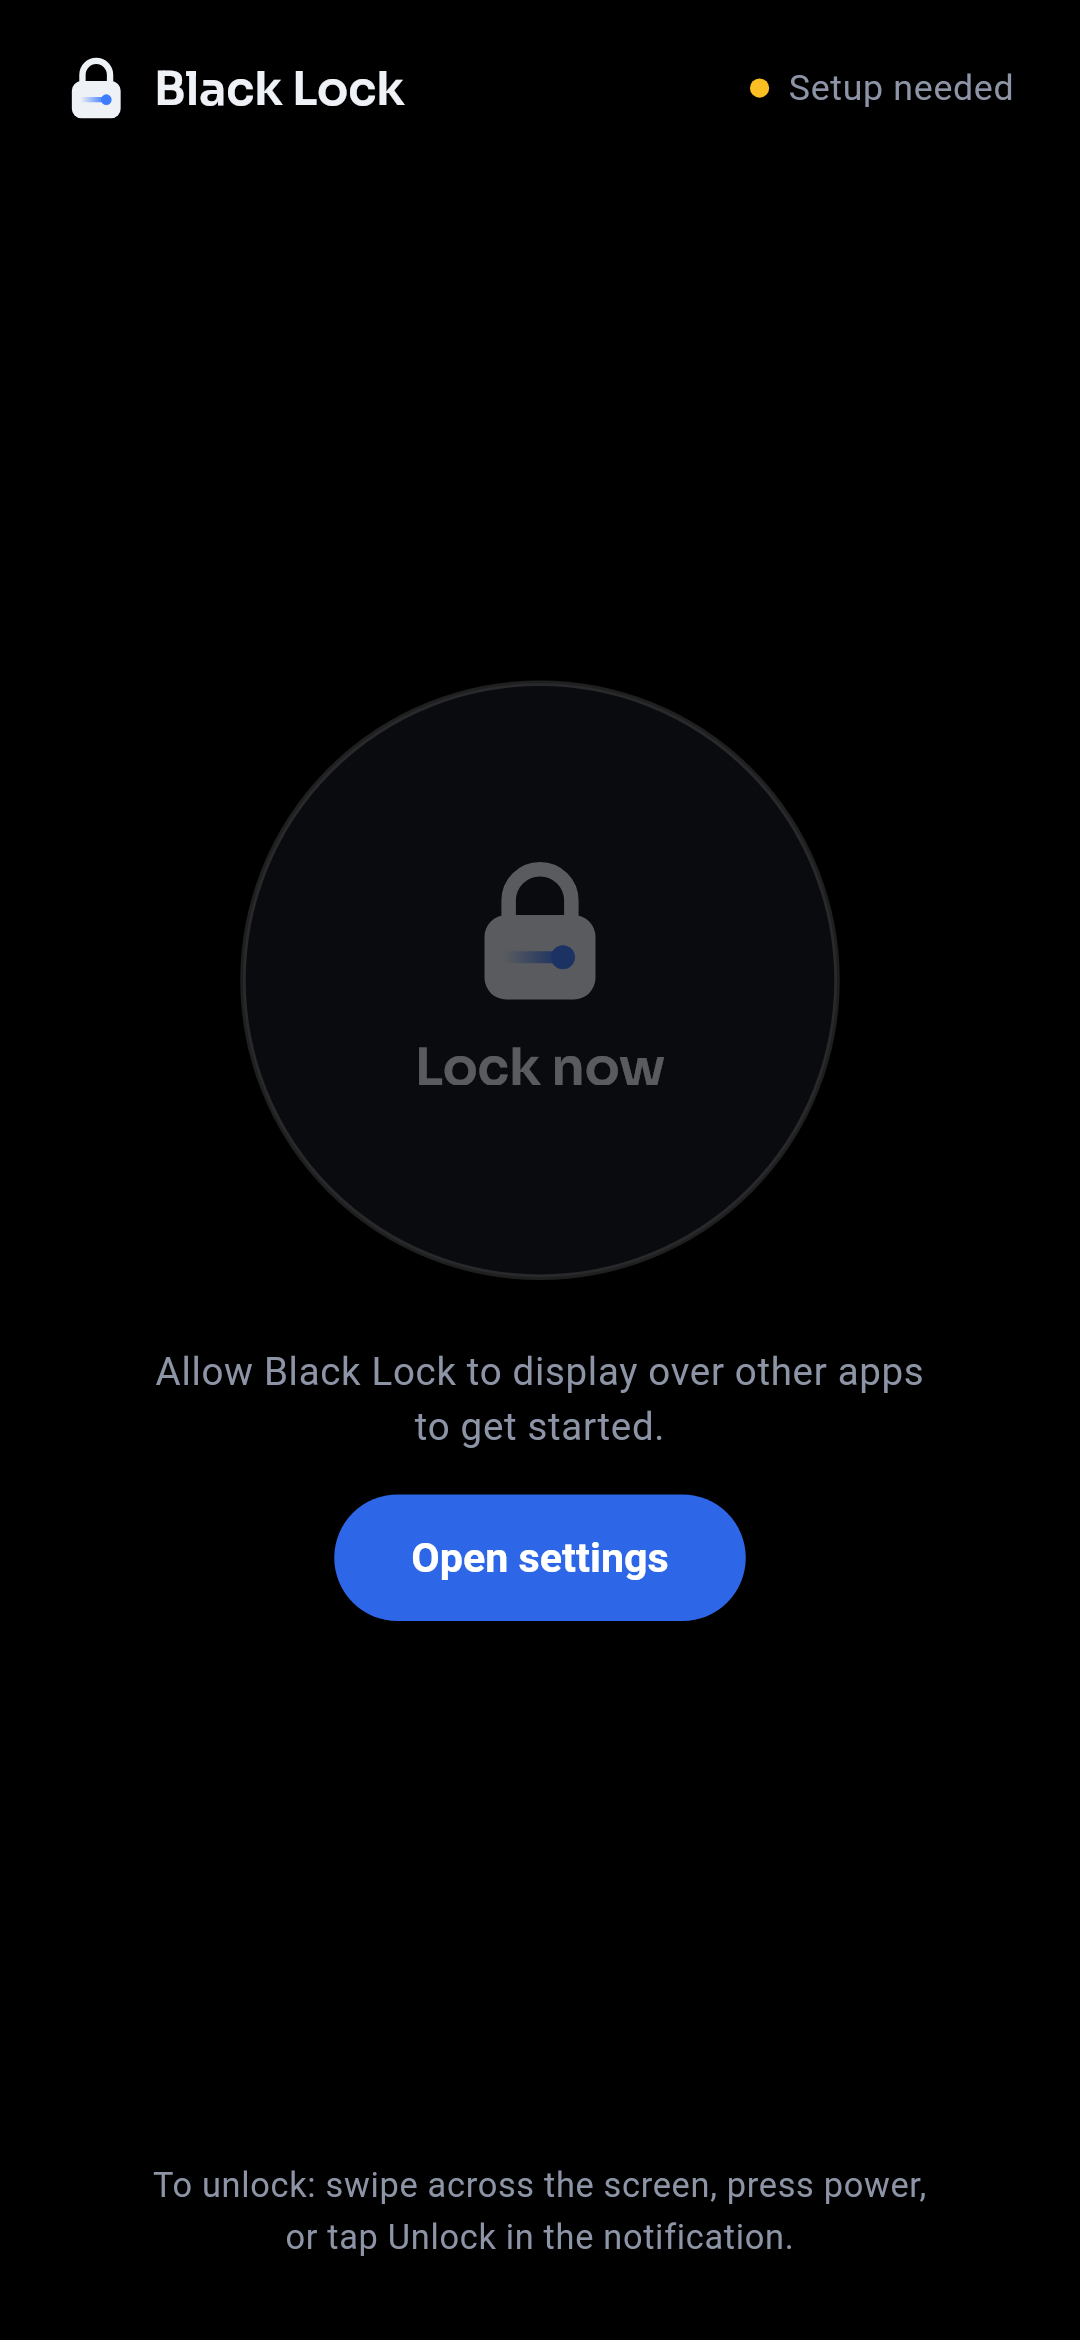
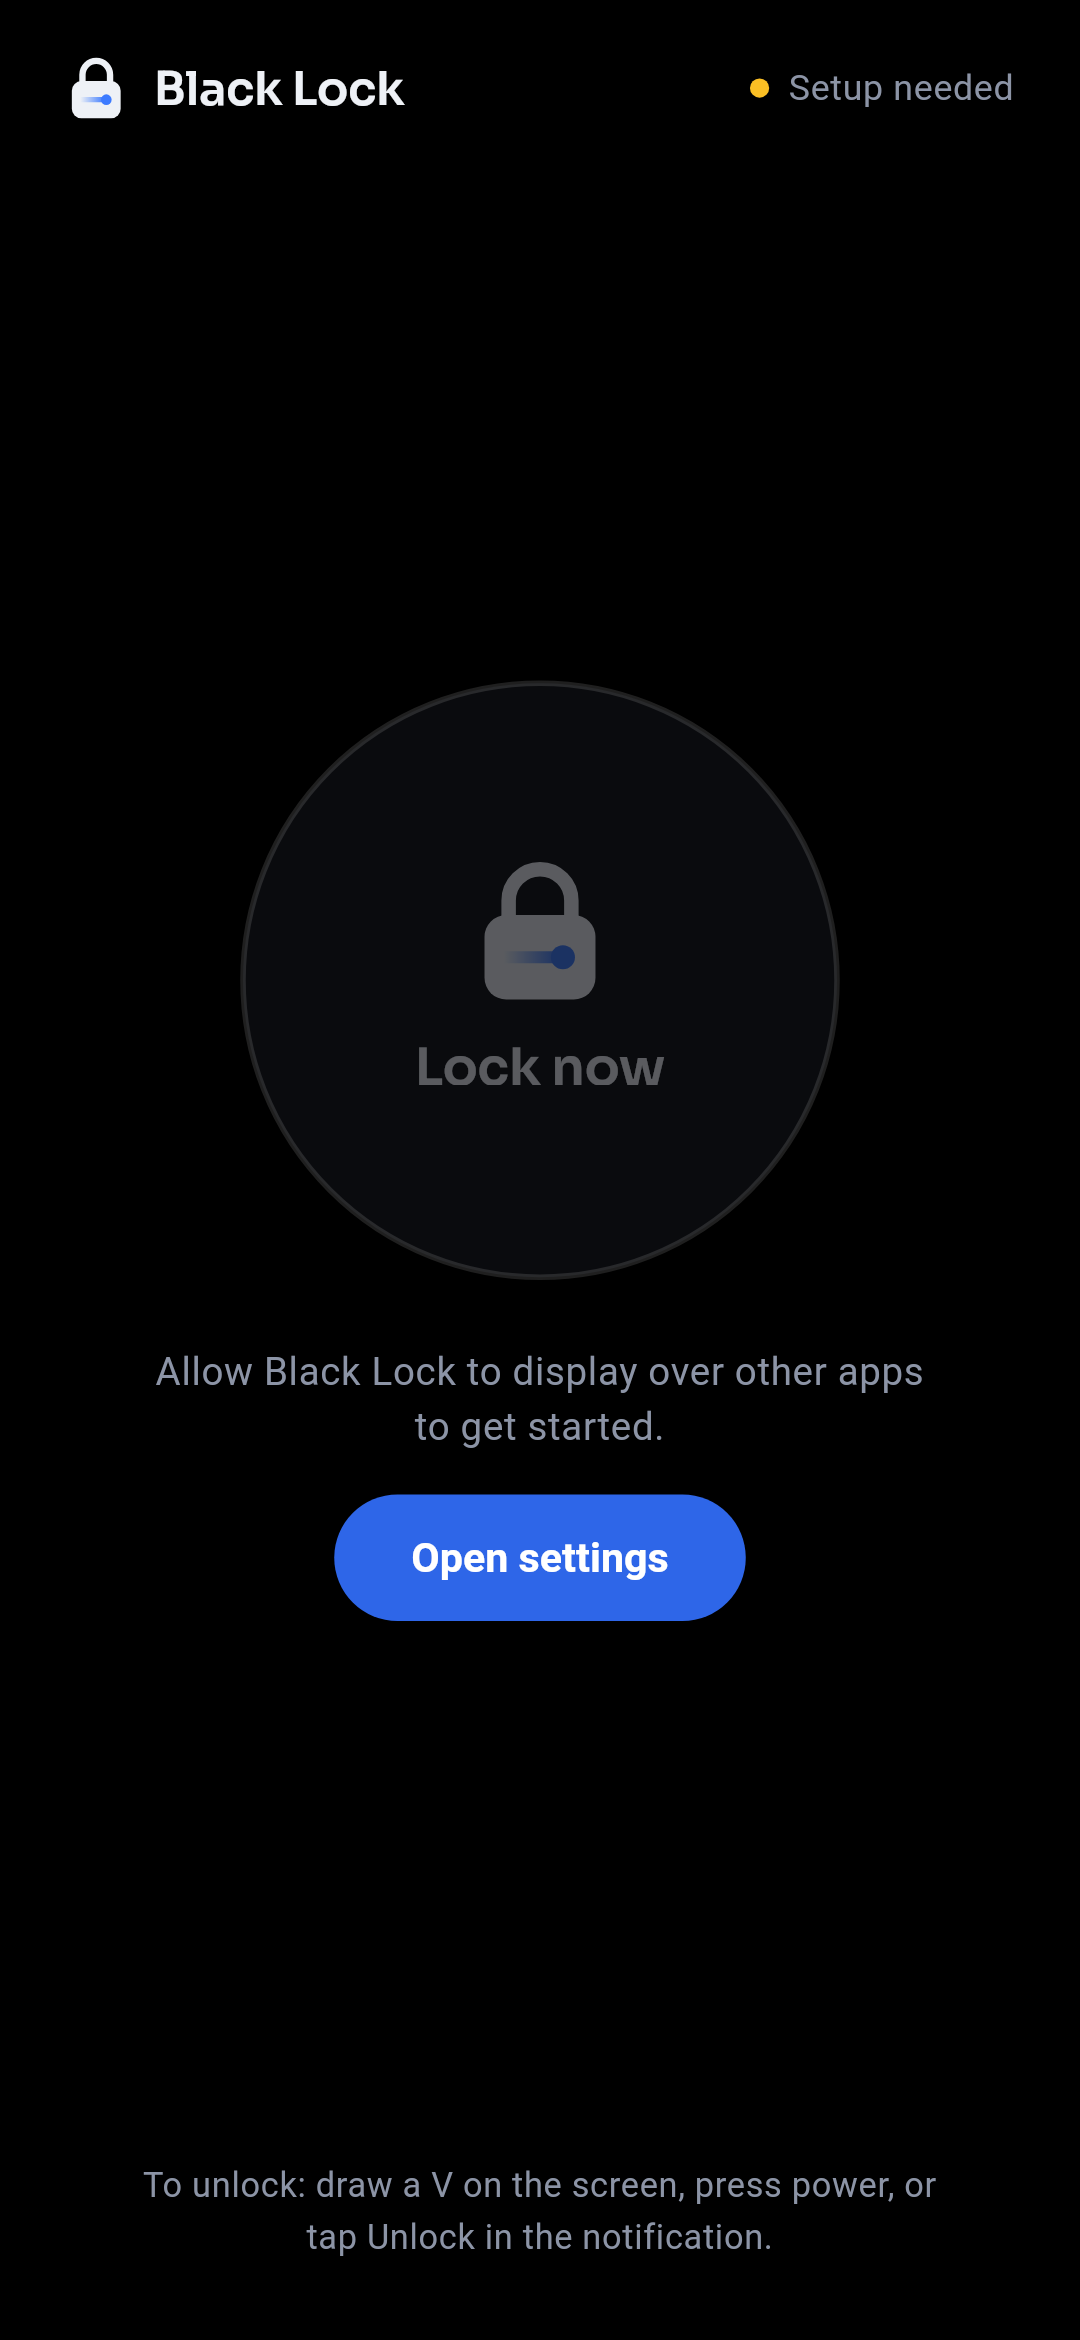
Unlock by drawing a V instead of a swipe
Replace SwipeDetector with VGestureDetector: one finger, within 1.5 s,
two slanted, fairly straight arms rising from the lowest point to
opposite sides, each at least max(70dp, 15% of the short side).
Update the notification, home-screen hint, README and screenshots.

Claude-Session: https://claude.ai/code/session_01Jiy7h9i8KPirgb67mjZLru

diff --git a/android/app/src/test/kotlin/com/blacklock/black_lock/VGestureDetectorTest.kt b/android/app/src/test/kotlin/com/blacklock/black_lock/VGestureDetectorTest.kt
@@ -1,0 +1,102 @@
+package com.blacklock.black_lock
+
+import org.junit.Assert.assertFalse
+import org.junit.Assert.assertTrue
+import org.junit.Test
+
+class VGestureDetectorTest {
+
+    private val detector = VGestureDetector(minArmPx = 200f)
+
+    /** Draws a stroke through [points] (x, y pairs) over [ms], with 10 moves per segment. */
+    private fun stroke(vararg points: Pair<Float, Float>, ms: Long = 500): Boolean {
+        val steps = (points.size - 1) * 10
+        detector.down(points[0].first, points[0].second, 0)
+        var step = 0
+        for (s in 0 until points.size - 1) {
+            val (x0, y0) = points[s]
+            val (x1, y1) = points[s + 1]
+            for (i in 1..10) {
+                step++
+                val f = i / 10f
+                val x = x0 + (x1 - x0) * f
+                val y = y0 + (y1 - y0) * f
+                val t = ms * step / steps
+                if (step == steps) return detector.up(x, y, t)
+                detector.move(x, y, t)
+            }
+        }
+        error("unreachable")
+    }
+
+    private fun p(x: Int, y: Int) = x.toFloat() to y.toFloat()
+
+    // --- Vs that unlock ---
+
+    @Test fun vLeftToRightUnlocks() = assertTrue(stroke(p(300, 800), p(500, 1200), p(700, 800)))
+    @Test fun vRightToLeftUnlocks() = assertTrue(stroke(p(700, 800), p(500, 1200), p(300, 800)))
+    @Test fun narrowVUnlocks() = assertTrue(stroke(p(410, 700), p(500, 1100), p(590, 700)))
+    @Test fun wideVUnlocks() = assertTrue(stroke(p(100, 900), p(500, 1250), p(900, 900)))
+    @Test fun lopsidedVUnlocks() = assertTrue(stroke(p(350, 900), p(500, 1200), p(750, 700)))
+
+    @Test fun wobblyVUnlocks() = assertTrue(
+        stroke(p(300, 800), p(360, 905), p(390, 1000), p(460, 1110), p(500, 1200),
+            p(545, 1095), p(590, 1010), p(640, 905), p(700, 800)),
+    )
+
+    // --- gestures that do not unlock ---
+
+    @Test fun tapDoesNotUnlock() {
+        detector.down(500f, 500f, 0)
+        assertFalse(detector.up(502f, 501f, 80))
+    }
+
+    @Test fun straightSwipeDownDoesNotUnlock() = assertFalse(stroke(p(500, 600), p(500, 1300)))
+    @Test fun straightSwipeUpDoesNotUnlock() = assertFalse(stroke(p(500, 1300), p(500, 600)))
+    @Test fun swipeAcrossDoesNotUnlock() = assertFalse(stroke(p(100, 1000), p(900, 1000)))
+    @Test fun diagonalSwipeDoesNotUnlock() = assertFalse(stroke(p(200, 700), p(700, 1300)))
+
+    @Test fun saggingSwipeAcrossDoesNotUnlock() =
+        assertFalse(stroke(p(100, 1000), p(500, 1150), p(900, 1000)))
+
+    @Test fun upsideDownVDoesNotUnlock() = assertFalse(stroke(p(300, 1200), p(500, 800), p(700, 1200)))
+
+    @Test fun downAndBackUpSameLineDoesNotUnlock() =
+        assertFalse(stroke(p(500, 700), p(510, 1200), p(500, 700)))
+
+    @Test fun bothArmsOnSameSideDoNotUnlock() =
+        assertFalse(stroke(p(300, 800), p(500, 1200), p(350, 750)))
+
+    @Test fun tooSmallVDoesNotUnlock() = assertFalse(stroke(p(400, 1000), p(470, 1150), p(540, 1000)))
+
+    @Test fun checkMarkWithShortArmDoesNotUnlock() =
+        assertFalse(stroke(p(380, 1050), p(450, 1200), p(750, 700)))
+
+    @Test fun slowVDoesNotUnlock() =
+        assertFalse(stroke(p(300, 800), p(500, 1200), p(700, 800), ms = 2500))
+
+    @Test fun wDoesNotUnlock() =
+        assertFalse(stroke(p(100, 800), p(300, 1200), p(500, 850), p(700, 1200), p(900, 800)))
+
+    @Test fun secondFingerCancels() {
+        detector.down(300f, 800f, 0)
+        detector.move(500f, 1200f, 200)
+        detector.extraPointer()
+        assertFalse(detector.up(700f, 800f, 400))
+    }
+
+    @Test fun cancelledGestureDoesNotUnlock() {
+        detector.down(300f, 800f, 0)
+        detector.move(500f, 1200f, 200)
+        detector.cancel()
+        assertFalse(detector.up(700f, 800f, 400))
+    }
+
+    @Test fun upWithoutDownDoesNotUnlock() = assertFalse(detector.up(500f, 900f, 200))
+
+    @Test fun eachGestureStartsFresh() {
+        assertFalse(stroke(p(500, 600), p(500, 1300)))
+        assertTrue(stroke(p(300, 800), p(500, 1200), p(700, 800)))
+        assertFalse(detector.up(700f, 800f, 600))
+    }
+}

diff --git a/android/app/src/main/kotlin/com/blacklock/black_lock/VGestureDetector.kt b/android/app/src/main/kotlin/com/blacklock/black_lock/VGestureDetector.kt
@@ -1,0 +1,109 @@
+package com.blacklock.black_lock
+
+import kotlin.math.abs
+import kotlin.math.hypot
+import kotlin.math.max
+import kotlin.math.min
+
+/**
+ * Decides whether a one-finger gesture is a deliberately drawn "V" (the unlock gesture).
+ *
+ * The lowest point of the stroke is the V's tip. The gesture counts when, from finger down to finger up:
+ *  - only one finger touched the screen, and it took no longer than [maxDurationMs],
+ *  - the tip lies between the start and the end: the two arms go up to opposite sides,
+ *  - each arm rises at least [minArmPx] from the tip,
+ *  - each arm is slanted: neither a vertical line (down and back up the same way)
+ *    nor a near-horizontal one (a sideways swipe that sags a little),
+ *  - each arm is roughly straight (straight-line length / path walked >= [minStraightness]).
+ *
+ * Either drawing direction works (left arm first, or right arm first).
+ * Taps, straight swipes, an upside-down V, zig-zags and pocket rubbing fail at least one rule.
+ * Times are in milliseconds from any monotonic clock.
+ */
+class VGestureDetector(
+    var minArmPx: Float,
+    private val maxDurationMs: Long = 1500,
+    private val minStraightness: Float = 0.8f,
+) {
+    private var tracking = false
+    private var startTime = 0L
+    private val xs = ArrayList<Float>()
+    private val ys = ArrayList<Float>()
+
+    fun down(x: Float, y: Float, time: Long) {
+        tracking = true
+        startTime = time
+        xs.clear(); ys.clear()
+        add(x, y)
+    }
+
+    fun move(x: Float, y: Float, time: Long) {
+        if (!tracking) return
+        if (time - startTime > maxDurationMs) {
+            tracking = false
+            return
+        }
+        add(x, y)
+    }
+
+    /** A second finger landed: this gesture can no longer unlock. */
+    fun extraPointer() {
+        tracking = false
+    }
+
+    fun cancel() {
+        tracking = false
+    }
+
+    /** Returns true when the gesture that just ended is a V. */
+    fun up(x: Float, y: Float, time: Long): Boolean {
+        move(x, y, time)
+        if (!tracking) return false
+        tracking = false
+        return isV()
+    }
+
+    private fun add(x: Float, y: Float) {
+        if (xs.size >= MAX_POINTS) {
+            tracking = false
+            return
+        }
+        xs.add(x); ys.add(y)
+    }
+
+    private fun isV(): Boolean {
+        val last = xs.size - 1
+        if (last < 2) return false
+        // Screen y grows downwards, so the tip is the point with the largest y.
+        var tip = 0
+        for (i in 1..last) if (ys[i] > ys[tip]) tip = i
+        if (tip == 0 || tip == last) return false
+        val opposite = (xs[0] - xs[tip]) * (xs[last] - xs[tip]) < 0
+        return opposite && isArm(0, tip) && isArm(last, tip)
+    }
+
+    /** The stroke between point [end] (top of the arm) and point [tip] is one arm of a V. */
+    private fun isArm(end: Int, tip: Int): Boolean {
+        val dx = abs(xs[tip] - xs[end])
+        val dy = ys[tip] - ys[end]
+        if (dy < minArmPx) return false
+        if (dx < MIN_SLANT * dy) return false // too close to vertical
+        if (dy < MIN_STEEPNESS * dx) return false // too close to horizontal
+        var path = 0f
+        for (i in min(end, tip) until max(end, tip)) {
+            path += hypot(xs[i + 1] - xs[i], ys[i + 1] - ys[i])
+        }
+        return path > 0f && hypot(dx, dy) / path >= minStraightness
+    }
+
+    private companion object {
+        /** Each arm's sideways travel must be at least this share of its height (about 11° off vertical). */
+        const val MIN_SLANT = 0.2f
+
+        /** Each arm's height must be at least this share of its sideways travel (about 22° off horizontal). */
+        const val MIN_STEEPNESS = 0.4f
+
+        /** Plenty for 1.5 s of touch events; a longer stream is not a quick V. */
+        const val MAX_POINTS = 1000
+    }
+}

diff --git a/android/app/src/main/kotlin/com/blacklock/black_lock/BlackOverlayView.kt b/android/app/src/main/kotlin/com/blacklock/black_lock/BlackOverlayView.kt
@@ -12,13 +12,13 @@ import kotlin.math.min
 
 /**
  * The pure-black cover. It swallows every touch and the Back key, and calls [onUnlock]
- * when [SwipeDetector] sees a deliberate swipe in any direction.
+ * when [VGestureDetector] sees a V drawn with one finger.
  */
 @SuppressLint("ViewConstructor")
 class BlackOverlayView(context: Context, private val onUnlock: () -> Unit) : View(context) {
 
     private val density = resources.displayMetrics.density
-    private val detector = SwipeDetector(minDistancePx = 120 * density)
+    private val detector = VGestureDetector(minArmPx = 70 * density)
     private val shownAt = SystemClock.uptimeMillis()
 
     init {
@@ -30,8 +30,8 @@ class BlackOverlayView(context: Context, private val onUnlock: () -> Unit) : Vie
 
     override fun onSizeChanged(w: Int, h: Int, oldw: Int, oldh: Int) {
         super.onSizeChanged(w, h, oldw, oldh)
-        // At least 120dp, or 30% of the short side of the screen, whichever is longer.
-        detector.minDistancePx = max(120 * density, 0.3f * min(w, h))
+        // Each arm of the V rises at least 70dp, or 15% of the short side of the screen, whichever is longer.
+        detector.minArmPx = max(70 * density, 0.15f * min(w, h))
     }
 
     @SuppressLint("ClickableViewAccessibility")

diff --git a/android/app/src/main/kotlin/com/blacklock/black_lock/LockService.kt b/android/app/src/main/kotlin/com/blacklock/black_lock/LockService.kt
@@ -29,7 +29,7 @@ import android.widget.Toast
  * while another app (video, music, navigation) is in front underneath it.
  *
  * Ways out, all of which call [unlock]:
- *  - a swipe on the cover (the normal way),
+ *  - drawing a V on the cover (the normal way),
  *  - pressing the power button (screen off),
  *  - the "Unlock" button on its notification, or tapping the Quick Settings tile.
  */

diff --git a/lib/main.dart b/lib/main.dart
@@ -355,7 +355,7 @@ class _Footer extends StatelessWidget {
         const SizedBox(
           width: 290,
           child: Text(
-            'To unlock: swipe across the screen, press power, '
+            'To unlock: draw a V on the screen, press power, '
             'or tap Unlock in the notification.',
             textAlign: TextAlign.center,
             style: hint,

diff --git a/README.md b/README.md
@@ -4,7 +4,7 @@
 
 Android app (Flutter UI + native Kotlin lock) that turns the screen pure black and ignores
 touches, while whatever is underneath (video, music, navigation) keeps running.
-Swipe across the screen with one finger, in any direction, to unlock.
+Draw a **V** on the screen with one finger to unlock.
 
 ## Screenshots
 
@@ -43,7 +43,7 @@ First time only: open Black Lock and tap **Open settings** to turn on "Display o
 
 **To unlock:**
 
-- **Swipe** across the screen with one finger, in any direction.
+- **Draw a V** on the screen with one finger: down to a point, then back up on the other side (either direction, within 1.5 s).
 - Tap **Unlock** on the Black Lock notification, or tap the tile again.
 - Press **Power**. This turns the screen off and ends the lock, and YouTube will usually pause because the screen is off.
 
@@ -56,7 +56,7 @@ First time only: open Black Lock and tap **Open settings** to turn on "Display o
 | Colours (pure black, one blue accent), Sora heading font, button styles | `lib/theme.dart`, `assets/fonts/` (SIL OFL) |
 | Method channel `black_lock` | `android/app/src/main/kotlin/com/blacklock/black_lock/MainActivity.kt` |
 | Black cover (overlay window) held by a foreground service | `LockService.kt`, `BlackOverlayView.kt` |
-| Unlock-swipe rule (one finger, ≥ max(120dp, 30% of short side), ≤ 1 s, fairly straight) | `SwipeDetector.kt` |
+| Unlock rule: a V (one finger, ≤ 1.5 s, two slanted, fairly straight arms on opposite sides of the lowest point, each rising ≥ max(70dp, 15% of short side)) | `VGestureDetector.kt` |
 | Quick Settings tile (+ invisible starter activity) | `LockTileService.kt`, `StartLockActivity.kt` |
 
 Other ways out: power button (screen off ends the lock), the notification's Unlock button,
@@ -69,7 +69,7 @@ Limits: Home and the notification shade can't be blocked by a normal app; Back i
 ```bash
 export PATH="$HOME/development/flutter/bin:$PATH" JAVA_HOME=$HOME/.jdks/jdk-17 ANDROID_HOME=$HOME/Android/Sdk
 flutter test                                    # Flutter screen
-(cd android && ./gradlew :app:testDebugUnitTest) # swipe rule
+(cd android && ./gradlew :app:testDebugUnitTest) # V unlock rule
 flutter build apk --release --split-per-abi      # build/app/outputs/flutter-apk/
 FLUTTER_ROOT=$HOME/development/flutter flutter test tool/screenshots_test.dart --update-goldens  # real screenshots → tool/screenshots/
 ```
